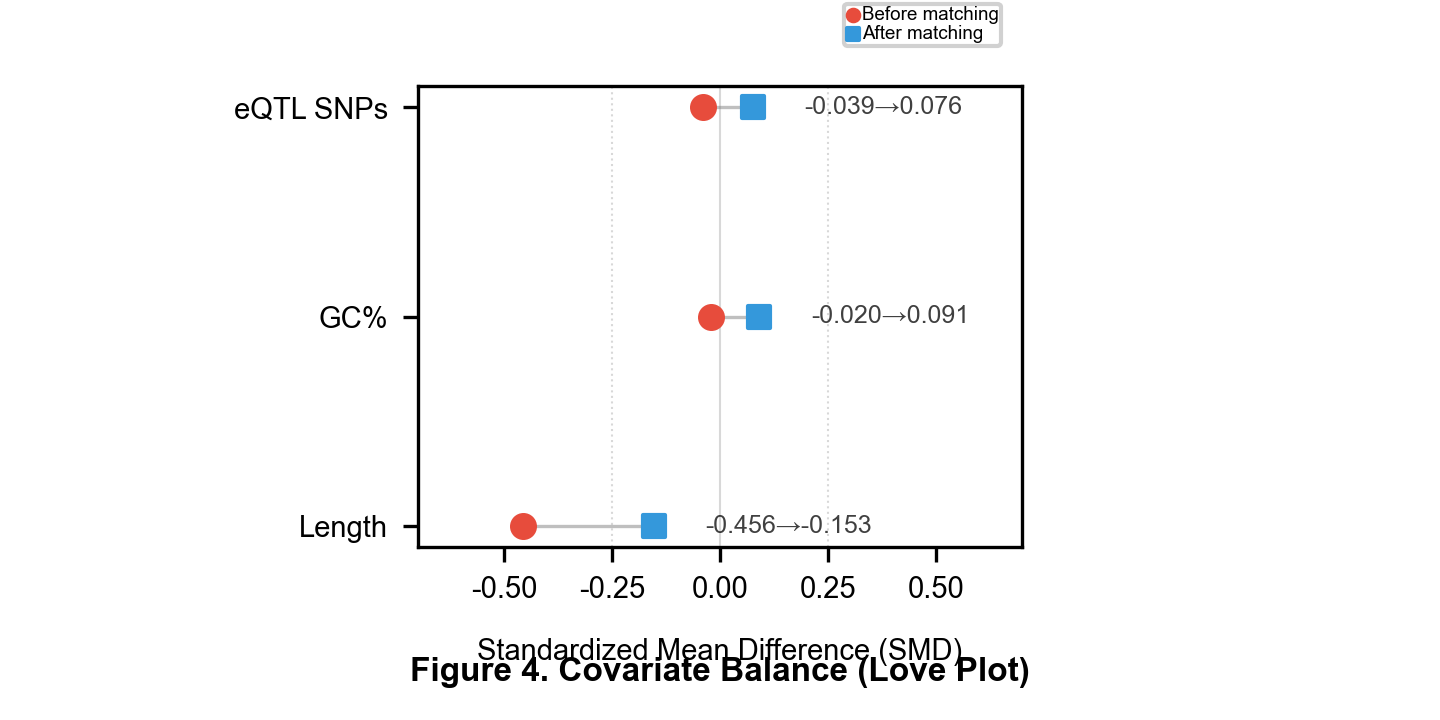
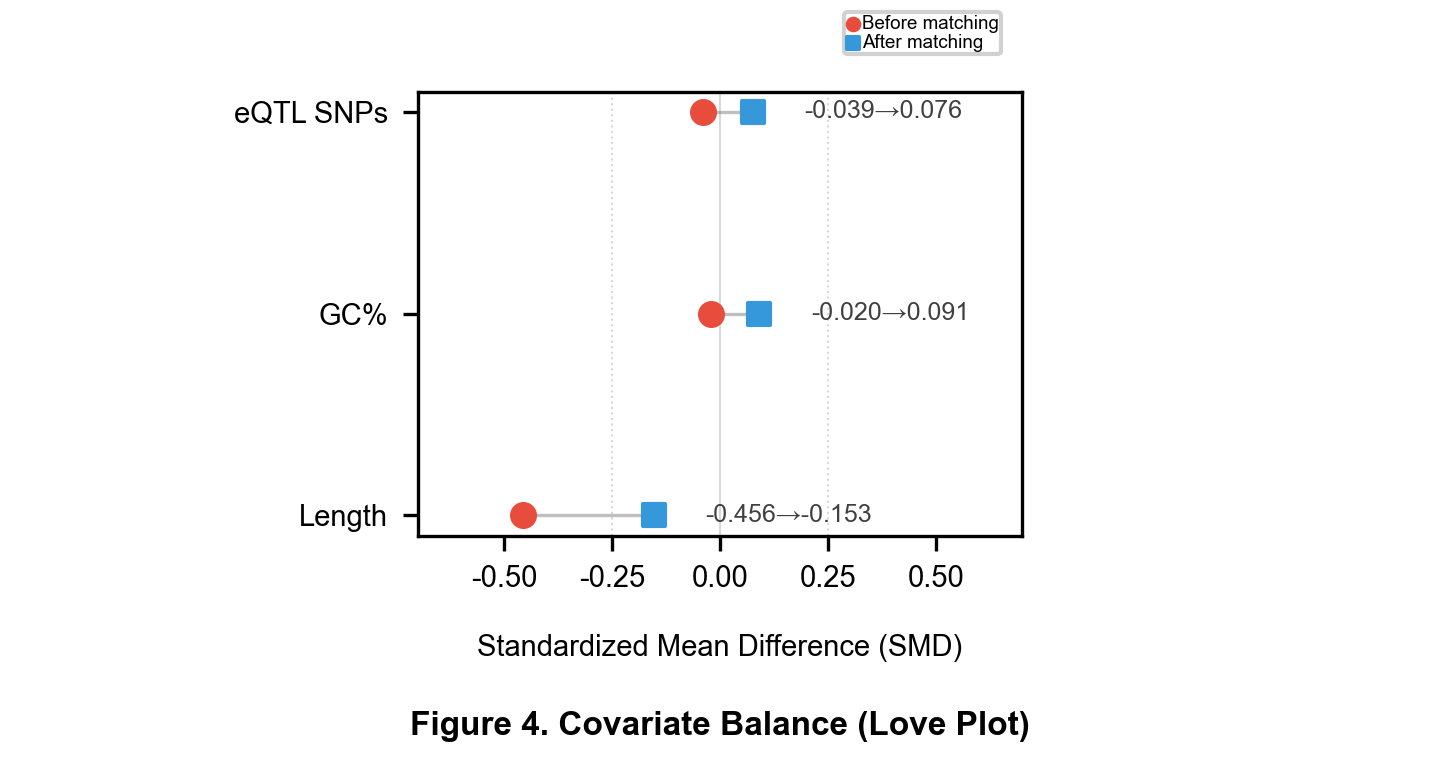
Figure4: increase vertical spacing between x-axis label and title

diff --git a/scripts/python/regenerate_figure4.py b/scripts/python/regenerate_figure4.py
@@ -112,8 +112,8 @@ def generate_figure4():
     smd_after = [-0.153, 0.091, 0.076]
 
     # Plot
-    fig, ax = plt.subplots(figsize=(4.80, 2.40))
-    fig.subplots_adjust(bottom=0.24, top=0.88, left=0.29, right=0.71)
+    fig, ax = plt.subplots(figsize=(4.80, 2.55))
+    fig.subplots_adjust(bottom=0.30, top=0.88, left=0.29, right=0.71)
     y = np.arange(len(params))
 
     ax.scatter(smd_before, y, c=C_BEFORE, marker='o', s=30, label='Before matching', zorder=5)
@@ -128,7 +128,7 @@ def generate_figure4():
 
     ax.set_yticks(y)
     ax.set_yticklabels(labels_short, fontsize=7)
-    ax.set_xlabel('Standardized Mean Difference (SMD)', fontsize=7, labelpad=8)
+    ax.set_xlabel('Standardized Mean Difference (SMD)', fontsize=7, labelpad=10)
     ax.set_xlim(-0.70, 0.70)
     ax.tick_params(axis='x', labelsize=7)
 
@@ -145,8 +145,8 @@ def generate_figure4():
         ax.text(text_x, i, f'{b:.3f}→{a:.3f}',
                 va='center', fontsize=6, alpha=0.75)
 
-    # Title centered directly below the x-axis label
-    fig.text(0.5, 0.045, 'Figure 4. Covariate Balance (Love Plot)',
+    # Title centered directly below the x-axis label, with extra spacing
+    fig.text(0.5, 0.03, 'Figure 4. Covariate Balance (Love Plot)',
              fontsize=8, fontweight='bold', ha='center', va='bottom')
 
     out_pdf = os.path.join(FIG_DIR, 'Figure4.pdf')